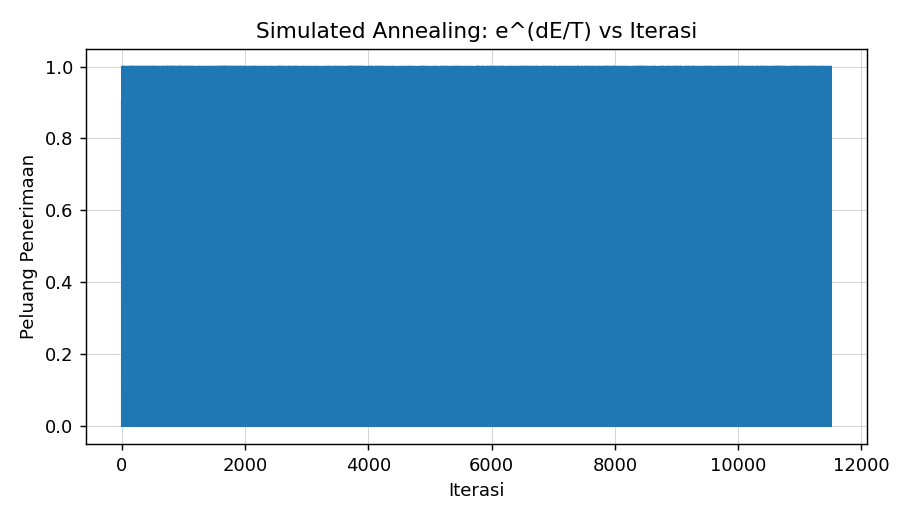
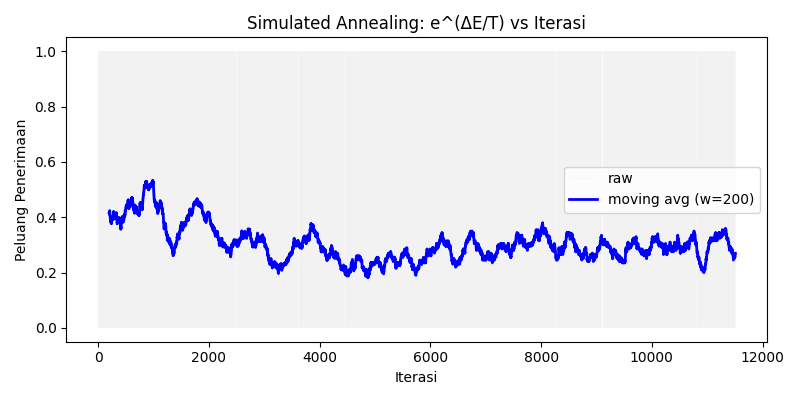
fix(sa): acceptance plot pakai moving average

diff --git a/src/algorithms/plots_sa.py b/src/algorithms/plots_sa.py
@@ -3,6 +3,7 @@ matplotlib.use("Agg")
 import matplotlib.pyplot as plt
 from matplotlib.patches import Rectangle
 import textwrap
+import numpy as np
 
 
 def plot_objective(res, path):
@@ -18,18 +19,25 @@ def plot_objective(res, path):
     plt.close(fig)
 
 
-def plot_acceptance(res, path):
-    """Plot peluang penerimaan e^(dE/T) vs iterasi"""
-    fig, ax = plt.subplots(figsize=(7, 4))
-    ax.plot(res["extra"].get("acceptance_probs", []), linewidth=0.8)
-    ax.set_title("Simulated Annealing: e^(dE/T) vs Iterasi")
-    ax.set_xlabel("Iterasi")
-    ax.set_ylabel("Peluang Penerimaan")
-    ax.grid(True, linewidth=0.3)
-    fig.tight_layout()
-    fig.savefig(path, dpi=130)
-    plt.close(fig)
+def plot_acceptance(res, path, window=200):
+    probs = np.array(res["extra"]["acceptance_probs"])
+    iters = np.arange(len(probs))
+    # moving average
+    kernel = np.ones(window) / window
+    smoothed = np.convolve(probs, kernel, mode="valid")
+    smooth_iters = iters[window-1:]
 
+    plt.figure(figsize=(8, 4))
+    plt.plot(iters, probs, alpha=0.1, color="gray", linewidth=0.3, label="raw")
+    plt.plot(smooth_iters, smoothed, color="blue", linewidth=2, label=f"moving avg (w={window})")
+    plt.title("Simulated Annealing: e^(ΔE/T) vs Iterasi")
+    plt.xlabel("Iterasi")
+    plt.ylabel("Peluang Penerimaan")
+    plt.ylim(-0.05, 1.05)
+    plt.legend()
+    plt.tight_layout()
+    plt.savefig(path, dpi=100)
+    plt.close()
 
 def draw_state(problem, placements, ax, title):
     """Menggambar posisi kendaraan dan overlap pada kapal"""
